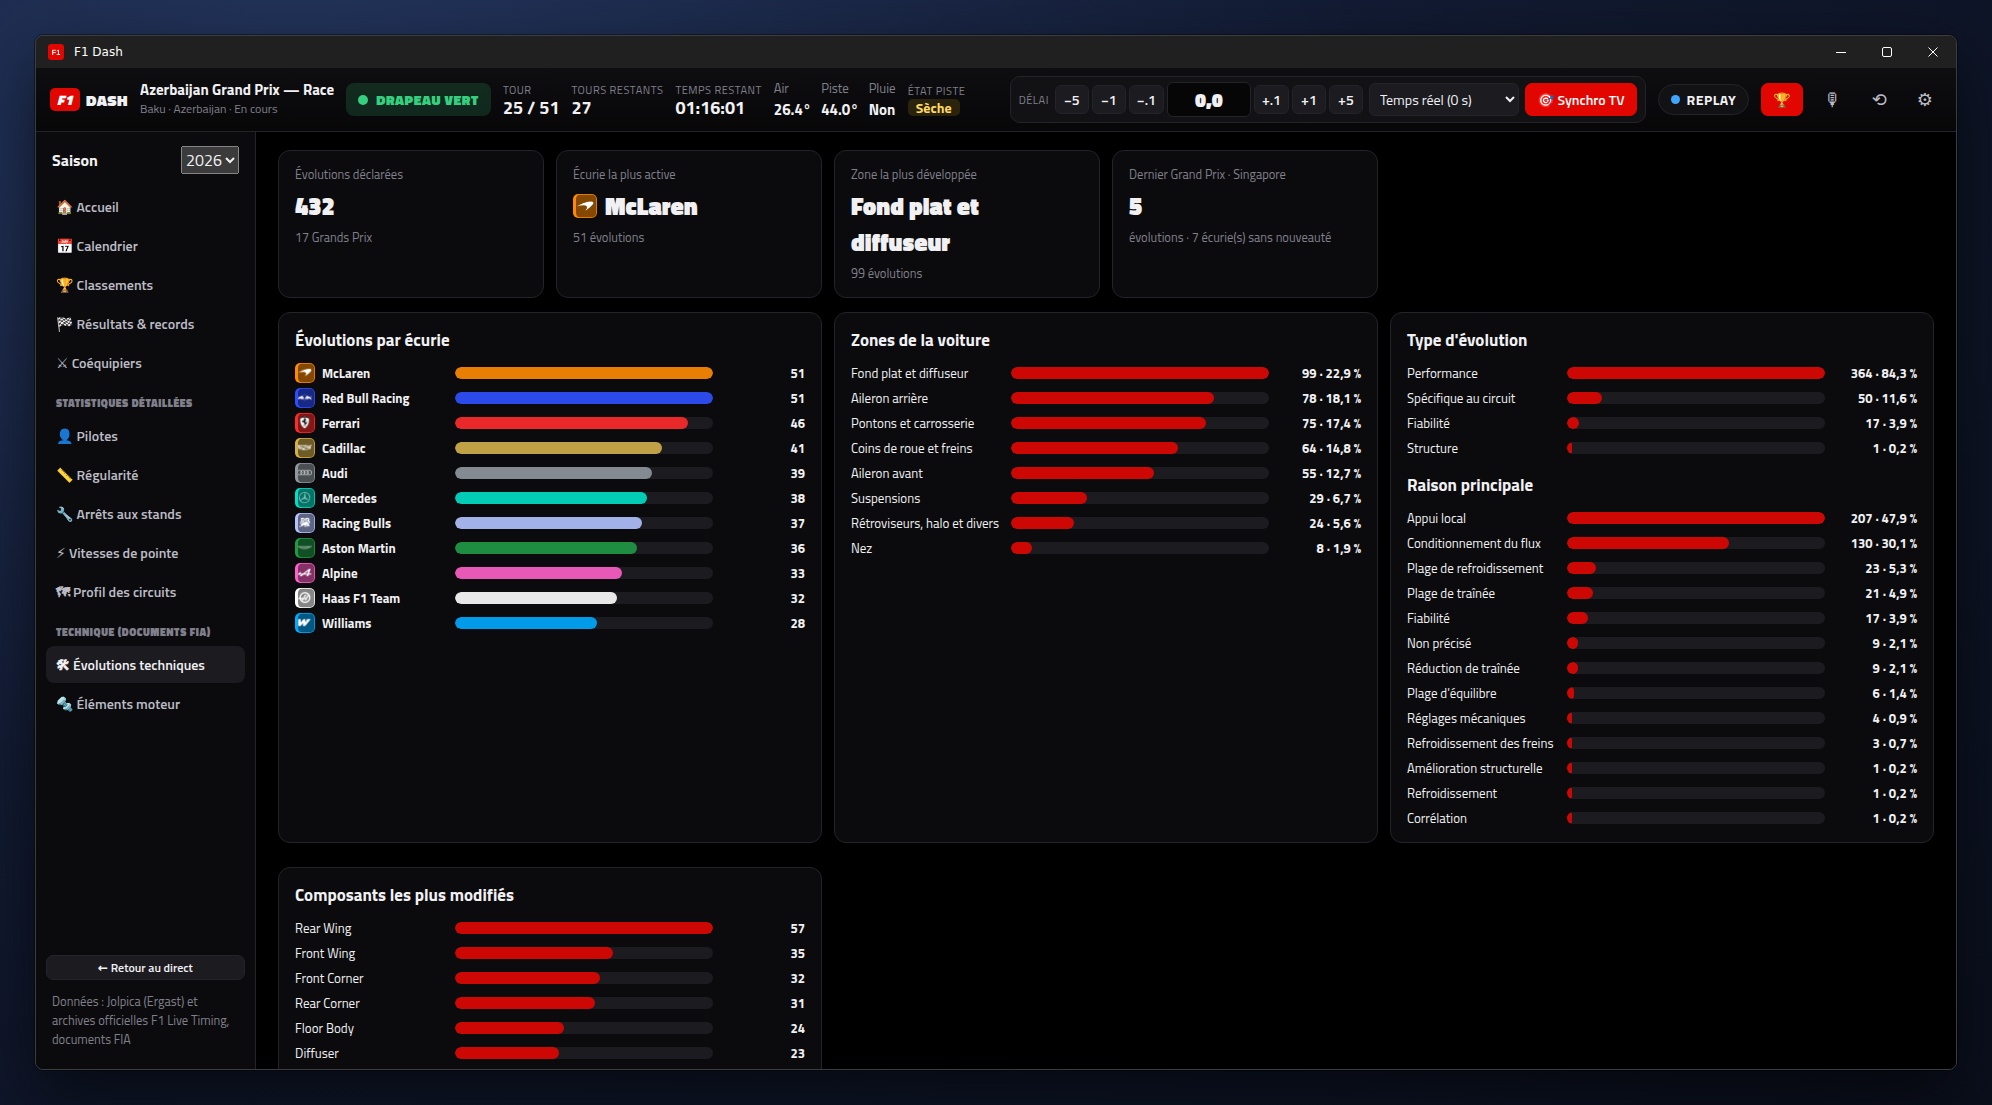
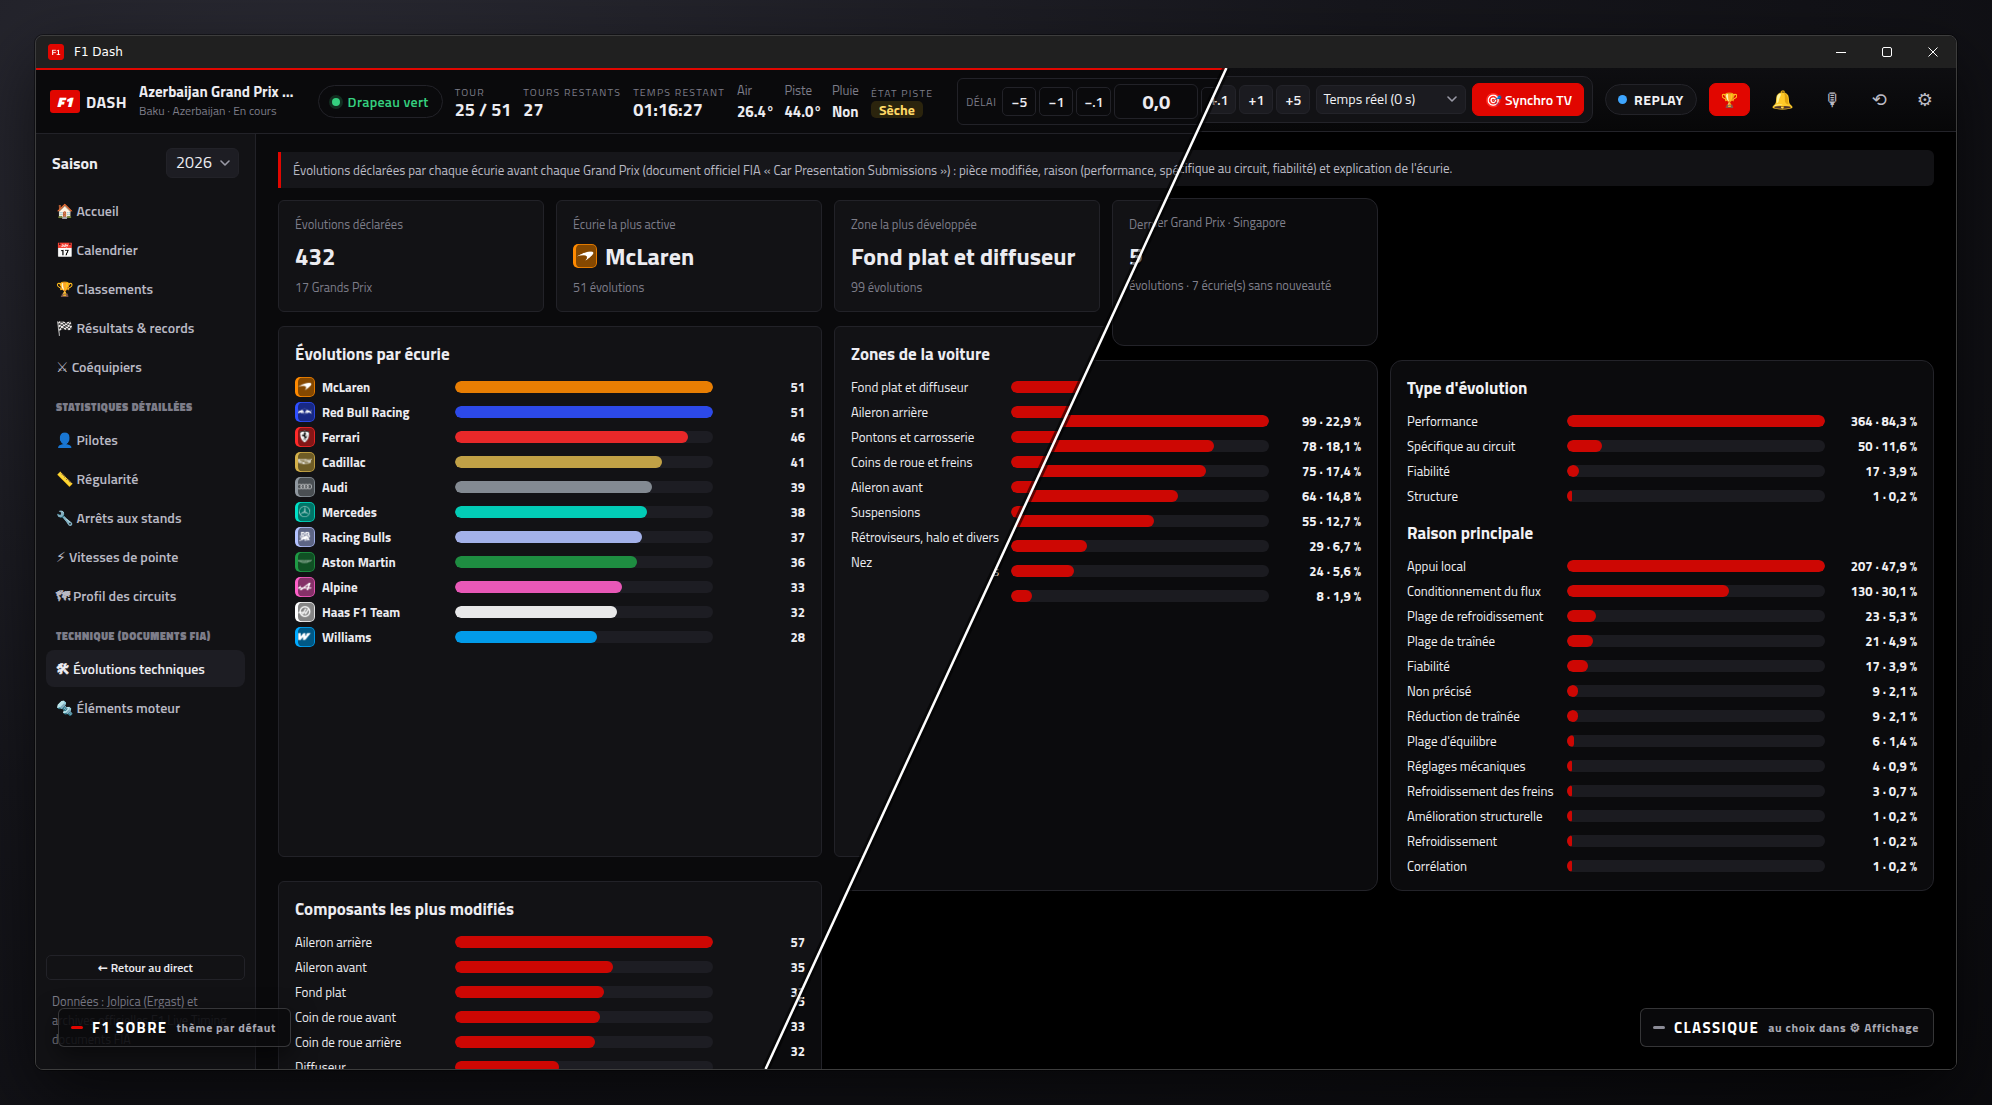
Captures : les deux thèmes sur chaque image, composants traduits
- Captures du README et du guide refaites : chaque vue est coupée en
  diagonale, thème « F1 sobre » à gauche et « Classique » à droite, au
  même instant du replay (téléphone compris).
- Saison → Évolutions techniques : « Composants les plus modifiés » en
  français, regroupés par nom traduit.

Claude-Session: https://claude.ai/code/session_01WgEz3ZSgjwLPy4E2f6uwb7

Changed region(s): [[0.0, 0.0, 0.9649, 0.8], [0.0311, 0.8, 0.4046, 0.9846], [0.8404, 0.9231, 0.9649, 0.9538]]

diff --git a/public/js/ui/season-fia.js b/public/js/ui/season-fia.js
@@ -137,7 +137,8 @@ export function renderTech(ctx, fia) {
   const types = count(all, (u) => u.type);
   const reasons = count(all, (u) => u.reason);
   const zones = count(all, (u) => zoneOf(u.component));
-  const comps = count(all.filter((u) => u.component), (u) => u.component.replace(/\s+/g, ' ').replace(/\b\w/g, (c) => c.toUpperCase())).slice(0, 15);
+  // Regroupés par nom français (« Floor » et « Floor Body » = « Fond plat »)
+  const comps = count(all.filter((u) => u.component), (u) => compFr(u.component) || u.component.replace(/\s+/g, ' ').replace(/\b\w/g, (c) => c.toUpperCase())).slice(0, 15);
   const tot = all.length;
   const pct = (n) => `${Math.round((n / tot) * 1000) / 10} %`.replace('.', ',');
 

diff --git a/README.md b/README.md
@@ -4,6 +4,8 @@ Dashboard **Formule 1 en direct** pour suivre chaque Grand Prix sur votre ordina
 
 ![F1 Dash pendant une course (replay du Grand Prix d'Azerbaïdjan 2026)](docs/screenshots/tableau-de-bord.png)
 
+<sub>Sur chaque capture : à gauche le thème « F1 sobre » (par défaut), à droite le thème « Classique », au choix dans ⚙ Réglages → Affichage.</sub>
+
 ## ✨ En bref
 
 - **Classement en direct** : écarts, secteurs et mini-secteurs, pneus, arrêts, vitesse de pointe, logos des écuries ; en qualif, limite d'élimination et temps à battre.
